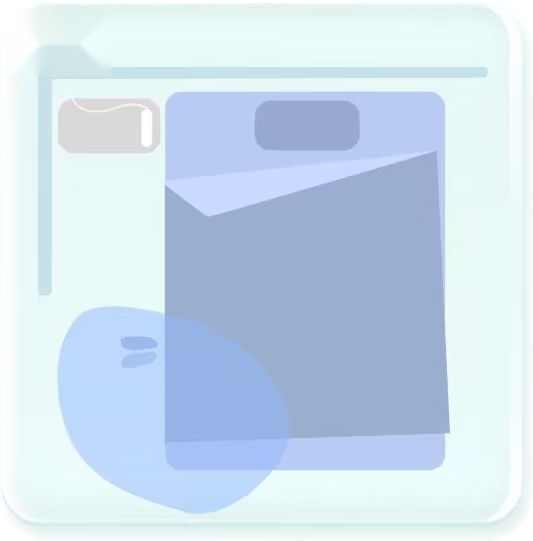
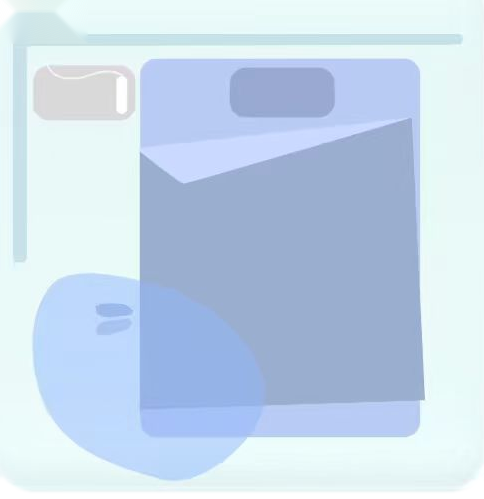
空间卡抠图去白边（逐边精确裁切+轮廓收缩羽化），卡片整体缩小约一成

Changed region(s): [[0.0, 0.0, 0.9607, 0.9619], [0.4339, 0.9018, 0.4959, 0.9319], [0.9917, 0.0, 1.0, 0.0301]]

diff --git a/WebDemo/src/app/components/SpatialScreen.tsx b/WebDemo/src/app/components/SpatialScreen.tsx
@@ -16,10 +16,10 @@ import teatableArt from "../../assets/spaces/teatable.png";
 type SkinKey = "bed" | "desk" | "kitchen" | "teatable";
 
 const SKINS: Record<SkinKey, { src: string; w: number; h: number }> = {
-  bed: { src: bedArt, w: 142, h: 144 },
-  desk: { src: deskArt, w: 152, h: 81 },
-  kitchen: { src: kitchenArt, w: 142, h: 144 },
-  teatable: { src: teatableArt, w: 152, h: 78 },
+  bed: { src: bedArt, w: 128, h: 130 },
+  desk: { src: deskArt, w: 137, h: 73 },
+  kitchen: { src: kitchenArt, w: 128, h: 127 },
+  teatable: { src: teatableArt, w: 137, h: 64 },
 };
 
 // curated, airy "premium" palette the user can recolour spaces with
@@ -250,8 +250,8 @@ function SpaceTile({
             style={{
               left: 11 * Math.min(piece.scale, 1.15),
               top: 6 * Math.min(piece.scale, 1.15),
-              gap: 6,
-              maxWidth: w - 20,
+              gap: 5,
+              maxWidth: w - 14,
             }}
           >
             <span
@@ -271,12 +271,12 @@ function SpaceTile({
               <span
                 className="flex items-center"
                 style={{
-                  gap: 4,
+                  gap: 3,
                   backgroundColor: "rgba(255,255,255,0.94)",
                   borderRadius: 999,
-                  padding: `${3 * piece.scale}px ${8 * piece.scale}px`,
+                  padding: `${2.5 * piece.scale}px ${6 * piece.scale}px`,
                   boxShadow: "0 1px 4px rgba(90,70,55,0.12)",
-                  fontSize: 11 * Math.min(piece.scale, 1.15),
+                  fontSize: 10.5 * Math.min(piece.scale, 1.15),
                   fontWeight: 600,
                   color: mix("#E08A3C", "#B0A89D", f),
                   whiteSpace: "nowrap",
